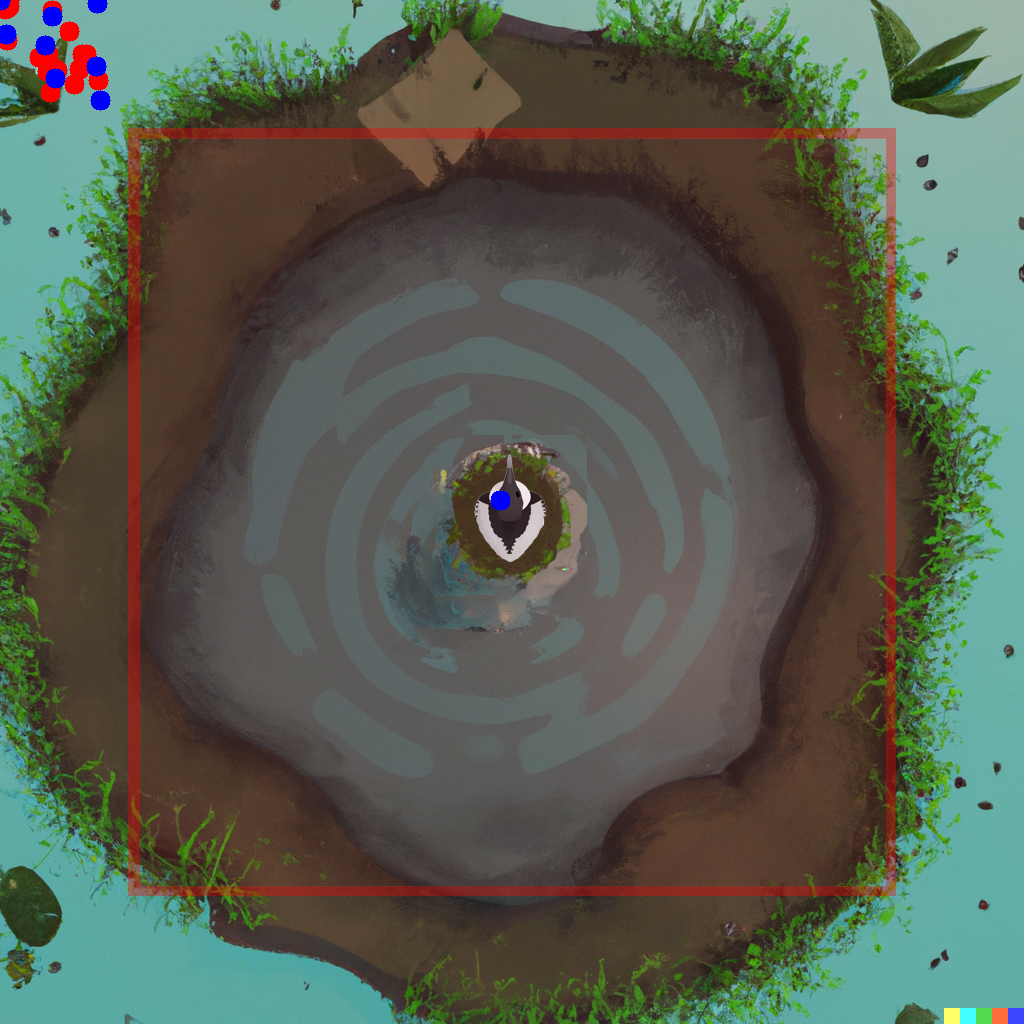
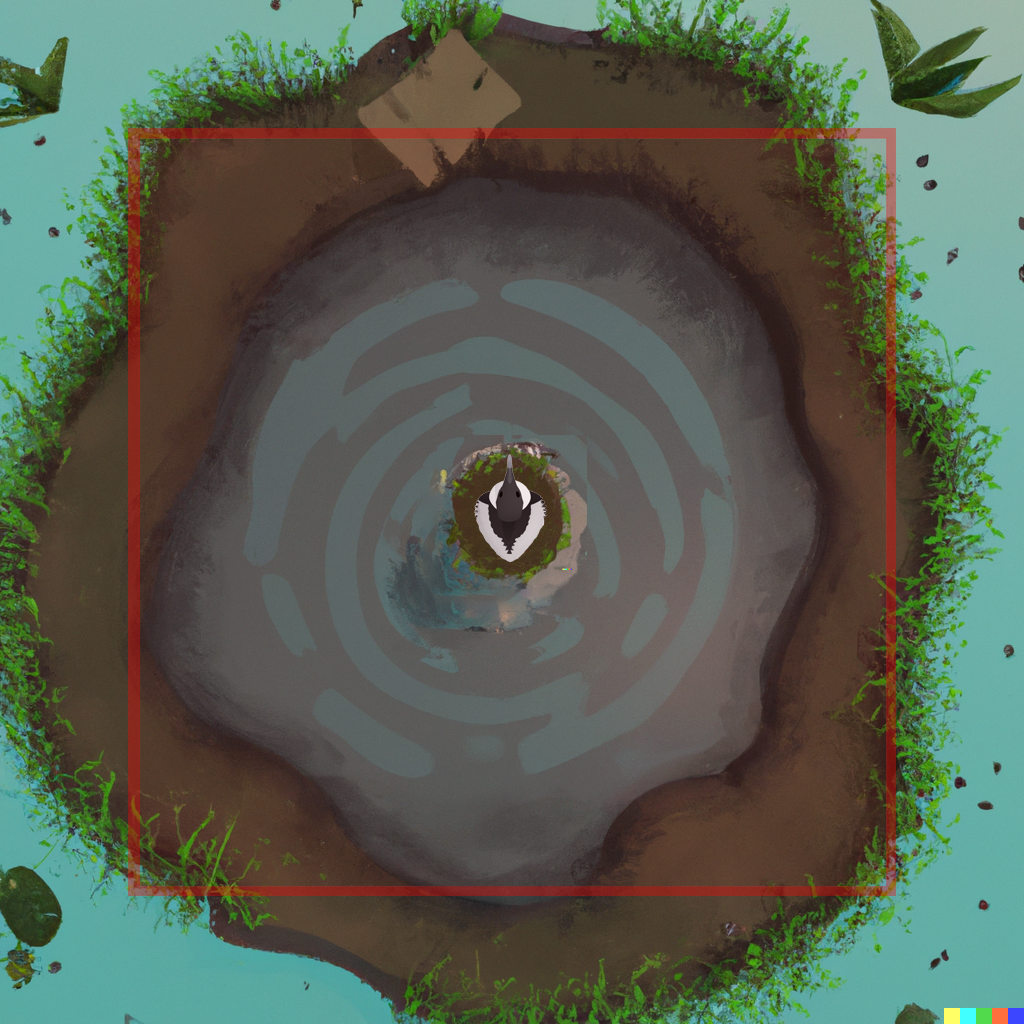
drawing the circles on the pic works now, next up: remove no-fly zone rectangle on photoshop and get the img to fastapi

Changed region(s): [[0.0, 0.0, 0.125, 0.125], [0.4688, 0.4688, 0.5, 0.5]]

diff --git a/pilot_detector.py b/pilot_detector.py
@@ -3,6 +3,8 @@ import xml.etree.ElementTree as ET
 from datetime import datetime, timedelta
 import sqlite3
 import time
+import cv2
+import numpy as np
 
 # no-fly zone coordinates from (300 000, 300 000) to (200 000, 200 000)
 
@@ -55,28 +57,20 @@ def database_handler(violators_info):
 
 # draws circles over the image in 'bird_nest.png' based on violators.db's x and y, x=250 000, y=250 000 is the center of the image and the edges are at x=300 000, y=300 000 and x=200 000, y=200 000
 def dot_marker():
-    import sqlite3
-    import cv2
-    import numpy as np
-
     conn = sqlite3.connect('violators.db')
     c = conn.cursor()
     c.execute("SELECT x, y FROM violators")
     rows = c.fetchall()
     conn.close()
-
-    # scale x,y from violators.db go from 0 to 1000 where 250 000 eguals 500
-
-
     img = cv2.imread('bird_nest.png')
     for row in rows:
         x = float(row[0])
         y = float(row[1])
-        x = int((x - 200000) / 1000)
-        y = int((y - 200000) / 1000)
+        x = int((x - 200000) / 100000 * 1000)
+        y = int((y - 200000) / 100000 * 1000)
         print(x, y)
-        cv2.circle(img, (x, y), 10, (255, 0, 0), -1)
-    cv2.imwrite('bird_nest.png', img)
+        cv2.circle(img, (x, y), 10, (0, 0, 255), -1)
+    cv2.imwrite('bird_nest_copy.png', img)
 
 def main():
     while 1:
